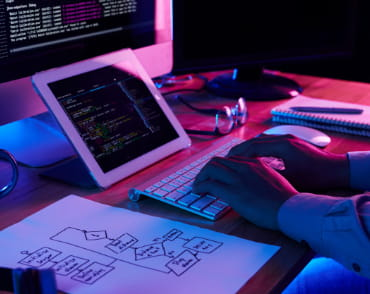
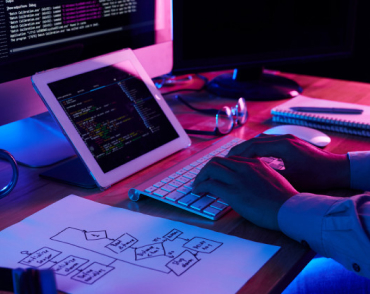
Зображення ще раз завантажені і оптимізовані

diff --git a/index.html b/index.html
@@ -73,13 +73,13 @@
             <h2>Чим ми займаємося</h2>
             <ul>
                 <li>
-                    <img src="./images/img(1).svg" alt="Людина печатає на клавіатурі" width="370">
+                    <img src="./images/img(1).jpg" alt="Людина печатає на клавіатурі" width="370">
                 </li>
                 <li>
-                    <img src="./images/img(2).svg" alt="Людина працює з ноутбуком та телефоном" width="370">
+                    <img src="./images/img(2).jpg" alt="Людина працює з ноутбуком та телефоном" width="370">
                 </li>
                 <li>
-                    <img src="./images/img(3).svg" alt="Людина працює з планшетом" width="370">
+                    <img src="./images/img(3).jpg" alt="Людина працює з планшетом" width="370">
                 </li>
             </ul>
 
